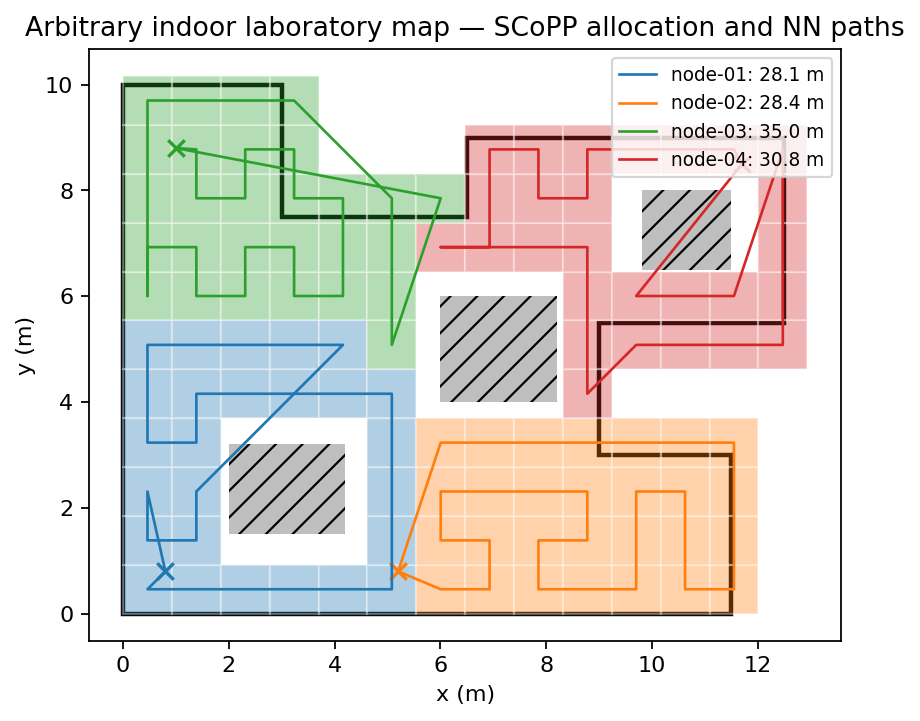
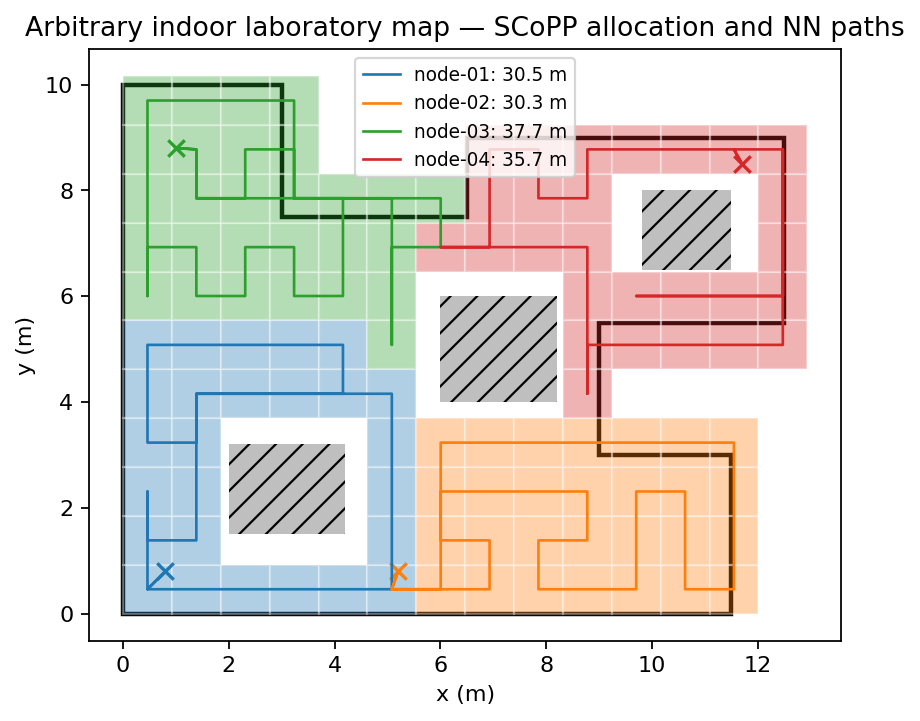
Expand coverage routes through adjacent valid cells

diff --git a/src/scopp/ui/path_ui.js b/src/scopp/ui/path_ui.js
@@ -19,7 +19,19 @@ const maxSteps=Math.max(...D.nodes.map(n=>n.trajectory.length));
 function applyFilter(){document.querySelectorAll('[data-owner]').forEach(e=>e.classList.toggle('dim',selected!==null&&+e.dataset.owner!==selected));document.querySelectorAll('.node-row').forEach(e=>e.classList.toggle('active',selected!==null&&+e.dataset.index===selected))}
 function positionAt(n,t){const end=n.trajectory.length-1,clamped=Math.min(t,end),i=Math.floor(clamped),f=clamped-i,a=n.trajectory[i],b=n.trajectory[Math.min(i+1,end)];return{p:[a[0]+(b[0]-a[0])*f,a[1]+(b[1]-a[1])*f],i,f}}
 function cumulative(n,t){const s=positionAt(n,t);let d=0;for(let i=1;i<=s.i;i++){const a=n.trajectory[i-1],b=n.trajectory[i];d+=Math.hypot(b[0]-a[0],b[1]-a[1])}if(s.f&&s.i<n.trajectory.length-1){const a=n.trajectory[s.i],b=n.trajectory[s.i+1];d+=Math.hypot(b[0]-a[0],b[1]-a[1])*s.f}return d}
-function drawStep(){document.querySelectorAll('.visited').forEach(e=>e.classList.remove('visited'));const active=selected===null?D.nodes:D.nodes.filter(n=>n.index===selected);D.nodes.forEach(n=>{const isActive=active.some(a=>a.index===n.index),s=positionAt(n,step),p=s.p,cursor=document.querySelector(`#cursor-${n.index}`);cursor.setAttribute('cx',p[0]);cursor.setAttribute('cy',-p[1]);cursor.setAttribute('visibility',isActive?'visible':'hidden');if(isActive)n.cellIds.slice(0,Math.max(0,s.i-1)).forEach(id=>document.querySelector(`#cell-${id}`)?.classList.add('visited'));const returning=s.i>=n.trajectory.length-2&&step>0,target=s.i===0?'첫 번째 cell':returning?'시작점':n.cellIds[Math.min(s.i,n.cellIds.length-1)],dist=cumulative(n,step),pct=n.trajectory.length>1?Math.min(step,n.trajectory.length-1)/(n.trajectory.length-1)*100:100;document.querySelector(`#node-status-${n.index}`).textContent=`${returning?'복귀':step===0?'대기':'이동'} · (${p[0].toFixed(2)}, ${p[1].toFixed(2)}) · 다음 ${target} · ${dist.toFixed(2)} m`;document.querySelector(`#bar-${n.index}`).style.width=`${pct}%`});document.querySelector('#movement').innerHTML=active.map(n=>{const s=positionAt(n,step),p=s.p;return`<div style="margin:5px 0;color:${C[n.index%C.length]}"><b>${n.id}</b> — 구간 ${s.i}/${n.trajectory.length-1}, 위치 (${p[0].toFixed(2)}, ${p[1].toFixed(2)}), 누적 ${cumulative(n,step).toFixed(2)} m</div>`}).join('');document.querySelector('#step').textContent=`${step.toFixed(1)} / ${selected===null?maxSteps-1:D.nodes[selected].trajectory.length-1}`}
+function drawStep(){
+ document.querySelectorAll('.visited').forEach(e=>e.classList.remove('visited'));
+ const active=selected===null?D.nodes:D.nodes.filter(n=>n.index===selected);
+ D.nodes.forEach(n=>{
+  const isActive=active.some(a=>a.index===n.index),s=positionAt(n,step),p=s.p,cursor=document.querySelector(`#cursor-${n.index}`),motionIndex=Math.min(s.i,n.motionCellIds.length-1);
+  cursor.setAttribute('cx',p[0]);cursor.setAttribute('cy',-p[1]);cursor.setAttribute('visibility',isActive?'visible':'hidden');
+  if(isActive){const covered=new Set(n.cellIds);n.motionCellIds.slice(0,Math.max(0,s.i)).filter(id=>covered.has(id)).forEach(id=>document.querySelector(`#cell-${id}`)?.classList.add('visited'))}
+  const returning=motionIndex>=n.returnMotionIndex||s.i>=n.motionCellIds.length,target=s.i>=n.motionCellIds.length?'시작점':n.motionCellIds[motionIndex],isCoverage=n.cellIds.includes(target),mode=returning?'복귀':step===0?'대기':isCoverage?'탐색':'경유',dist=cumulative(n,step),pct=n.trajectory.length>1?Math.min(step,n.trajectory.length-1)/(n.trajectory.length-1)*100:100;
+  document.querySelector(`#node-status-${n.index}`).textContent=`${mode} · (${p[0].toFixed(2)}, ${p[1].toFixed(2)}) · 다음 ${target} · ${dist.toFixed(2)} m`;document.querySelector(`#bar-${n.index}`).style.width=`${pct}%`;
+ });
+ document.querySelector('#movement').innerHTML=active.map(n=>{const s=positionAt(n,step),p=s.p;return`<div style="margin:5px 0;color:${C[n.index%C.length]}"><b>${n.id}</b> — 인접 이동 ${s.i}/${n.trajectory.length-1}, 위치 (${p[0].toFixed(2)}, ${p[1].toFixed(2)}), 누적 ${cumulative(n,step).toFixed(2)} m</div>`}).join('');
+ document.querySelector('#step').textContent=`${step.toFixed(1)} / ${selected===null?maxSteps-1:D.nodes[selected].trajectory.length-1}`;
+}
 function stop(){if(timer){clearInterval(timer);timer=null}document.querySelector('#play').textContent='▶ 재생'}
 function play(){if(timer){stop();return}document.querySelector('#play').textContent='Ⅱ 일시정지';timer=setInterval(()=>{const limit=selected===null?maxSteps-1:D.nodes[selected].trajectory.length-1;if(step>=limit){step=limit;drawStep();stop();return}step=Math.min(limit,step+(+document.querySelector('#speed').value));drawStep()},50)}
 document.querySelector('#play').onclick=play;document.querySelector('#reset').onclick=()=>{stop();step=0;drawStep()};document.querySelector('#speed').onchange=()=>{if(timer){stop();play()}};

diff --git a/artifacts/progress_ui.html b/artifacts/progress_ui.html
@@ -4,7 +4,7 @@
 <main><section class="stats" id="stats"></section><section class="panel"><div class="heading"><div><span>PIPELINE</span><h2>핵심 구현 단계</h2></div><b id="completion"></b></div><div class="pipeline" id="pipeline"></div></section>
 <div class="columns"><section class="panel"><div class="heading"><div><span>COMPARISON</span><h2>Clustering profile 비교</h2></div></div><div id="profiles"></div></section><section class="panel"><div class="heading"><div><span>DELIVERABLES</span><h2>확인 가능한 산출물</h2></div></div><div class="links" id="links"></div></section></div>
 <section class="panel"><div class="heading"><div><span>NEXT</span><h2>다음 구현 후보</h2></div></div><div class="next" id="next"></div></section></main>
-<script>const D={"commit": "fc17865", "tests": 43, "pythonFiles": 26, "cellCount": 109, "profiles": [{"name": "deterministic_lloyd", "cells": [26, 28, 28, 27], "makespan": 35.[phone redacted]}, {"name": "official_minibatch", "cells": [23, 38, 19, 29], "makespan": 47.[phone redacted]}], "stages": [{"name": "지도 모델", "detail": "AOI·no-fly·Shapely", "status": "done"}, {"name": "격자화", "detail": "FoV 기반 cell", "status": "done"}, {"name": "Clustering", "detail": "Lloyd·MiniBatch", "status": "done"}, {"name": "경매", "detail": "Conflict 해결", "status": "done"}, {"name": "CPP", "detail": "Nearest neighbor", "status": "done"}, {"name": "평가", "detail": "Makespan·확장성", "status": "done"}, {"name": "UI", "detail": "경로 이동 재생", "status": "done"}], "links": [{"name": "경로 이동 UI", "href": "path_ui.html"}, {"name": "공식 Profile UI", "href": "official_path_ui.html"}, {"name": "Profile 비교 JSON", "href": "profile_comparison.json"}, {"name": "확장성 그래프", "href": "indoor_scaling.png"}, {"name": "README", "href": "../README.md"}], "next": [{"name": "경로 성능", "detail": "동적 삭제 없는 KD-tree 탐색 병목을 개선합니다."}, {"name": "장애물 회피", "detail": "Cell 방문 순서를 실제 충돌 없는 이동 경로로 연결합니다."}, {"name": "실기체 연동", "detail": "시뮬레이터 검증 후 실험실 제어 어댑터를 추가합니다."}]};</script><script>document.querySelector('#commit').textContent=`main · ${D.commit}`;
+<script>const D={"commit": "f0e80ab", "tests": 44, "pythonFiles": 26, "cellCount": 109, "profiles": [{"name": "deterministic_lloyd", "cells": [26, 28, 28, 27], "makespan": 37.[phone redacted]}, {"name": "official_minibatch", "cells": [23, 38, 19, 29], "makespan": 50.[phone redacted]}], "stages": [{"name": "지도 모델", "detail": "AOI·no-fly·Shapely", "status": "done"}, {"name": "격자화", "detail": "FoV 기반 cell", "status": "done"}, {"name": "Clustering", "detail": "Lloyd·MiniBatch", "status": "done"}, {"name": "경매", "detail": "Conflict 해결", "status": "done"}, {"name": "CPP", "detail": "Nearest neighbor", "status": "done"}, {"name": "평가", "detail": "Makespan·확장성", "status": "done"}, {"name": "UI", "detail": "경로 이동 재생", "status": "done"}], "links": [{"name": "경로 이동 UI", "href": "path_ui.html"}, {"name": "공식 Profile UI", "href": "official_path_ui.html"}, {"name": "Profile 비교 JSON", "href": "profile_comparison.json"}, {"name": "확장성 그래프", "href": "indoor_scaling.png"}, {"name": "README", "href": "../README.md"}], "next": [{"name": "경로 성능", "detail": "동적 삭제 없는 KD-tree 탐색 병목을 개선합니다."}, {"name": "장애물 회피", "detail": "Cell 방문 순서를 실제 충돌 없는 이동 경로로 연결합니다."}, {"name": "실기체 연동", "detail": "시뮬레이터 검증 후 실험실 제어 어댑터를 추가합니다."}]};</script><script>document.querySelector('#commit').textContent=`main · ${D.commit}`;
 const stats=[['테스트',`${D.tests} passed`],['Python 파일',D.pythonFiles],['유효 Cell',D.cellCount],['구현 Profile',D.profiles.length]];
 document.querySelector('#stats').innerHTML=stats.map(x=>`<article class="stat"><b>${x[1]}</b><small>${x[0]}</small></article>`).join('');
 const done=D.stages.filter(x=>x.status==='done').length;document.querySelector('#completion').textContent=`${done}/${D.stages.length} 완료`;

diff --git a/src/scopp/algorithm/path_planning.py b/src/scopp/algorithm/path_planning.py
@@ -3,6 +3,7 @@
 from __future__ import annotations
 
 from dataclasses import dataclass
+from heapq import heappop, heappush
 from math import hypot
 
 from scopp.algorithm.auction import AllocationResult
@@ -62,12 +63,15 @@ class NodePath:
     start: XY
     cell_ids: tuple[str, ...]
     waypoints: tuple[XY, ...]
+    motion_cell_ids: tuple[str, ...]
+    motion_waypoints: tuple[XY, ...]
+    return_motion_index: int
     distance_m: float
 
     @property
     def trajectory(self) -> tuple[XY, ...]:
         """Official-code trajectory: start, all cell centres, then return."""
-        return (self.start,) + self.waypoints + ((self.start,) if self.waypoints else ())
+        return (self.start,) + self.motion_waypoints + ((self.start,) if self.motion_waypoints else ())
 
 
 @dataclass(frozen=True, slots=True)
@@ -98,11 +102,53 @@ def _ordered_nearest_neighbor(start: XY, items: tuple[_PointItem, ...]) -> tuple
     return tuple(route)
 
 
+class NoAdjacentPathError(ValueError):
+    """Raised when two coverage targets cannot be connected by valid cells."""
+
+
+def _adjacent_path(start_id: str, goal_id: str, cells_by_id, ids_by_key) -> tuple[str, ...]:
+    """Return a deterministic 4-neighbor A* path including both endpoints."""
+    if start_id == goal_id:
+        return (start_id,)
+    start, goal = cells_by_id[start_id], cells_by_id[goal_id]
+    start_key, goal_key = (start.row, start.col), (goal.row, goal.col)
+    frontier: list[tuple[int, int, int, tuple[int, int]]] = []
+    heappush(frontier, (0, 0, 0, start_key))
+    came_from: dict[tuple[int, int], tuple[int, int] | None] = {start_key: None}
+    cost = {start_key: 0}
+    sequence = 0
+    neighbor_offsets = ((-1, 0), (0, -1), (0, 1), (1, 0))
+    while frontier:
+        _, current_cost, _, current = heappop(frontier)
+        if current == goal_key:
+            keys: list[tuple[int, int]] = []
+            cursor: tuple[int, int] | None = current
+            while cursor is not None:
+                keys.append(cursor)
+                cursor = came_from[cursor]
+            return tuple(ids_by_key[key] for key in reversed(keys))
+        if current_cost != cost[current]:
+            continue
+        for dr, dc in neighbor_offsets:
+            neighbor = (current[0] + dr, current[1] + dc)
+            if neighbor not in ids_by_key:
+                continue
+            new_cost = current_cost + 1
+            if new_cost < cost.get(neighbor, 10**18):
+                cost[neighbor] = new_cost
+                came_from[neighbor] = current
+                sequence += 1
+                heuristic = abs(neighbor[0] - goal_key[0]) + abs(neighbor[1] - goal_key[1])
+                heappush(frontier, (new_cost + heuristic, new_cost, sequence, neighbor))
+    raise NoAdjacentPathError(f"no valid 4-neighbor path between {start_id!r} and {goal_id!r}")
+
+
 def plan_coverage_paths(mapped: DiscretizedMap, allocation: AllocationResult) -> PathPlan:
     """Order each node's assigned cell centres using KD-tree nearest neighbor."""
     if len(allocation.nodes) != len(mapped.source.node_starts):
         raise ValueError("allocation node count does not match map node count")
     cell_by_id = {cell.id: cell for cell in mapped.cells}
+    id_by_key = {(cell.row, cell.col): cell.id for cell in mapped.cells}
     stable_index = {cell.id: index for index, cell in enumerate(mapped.cells)}
     paths: list[NodePath] = []
     node_by_id = {node.id: node for node in mapped.source.node_starts}
@@ -114,12 +160,24 @@ def plan_coverage_paths(mapped: DiscretizedMap, allocation: AllocationResult) ->
         items = tuple(_PointItem(cell_by_id[cell_id].center, stable_index[cell_id], cell_id) for cell_id in allocated.cell_ids)
         ordered = _ordered_nearest_neighbor(node.position, items)
         waypoints = tuple(item.point for item in ordered)
-        distance = 0.0
-        previous = node.position
-        for waypoint in waypoints:
-            distance += hypot(waypoint[0] - previous[0], waypoint[1] - previous[1])
-            previous = waypoint
-        if waypoints:
-            distance += hypot(node.position[0] - previous[0], node.position[1] - previous[1])
-        paths.append(NodePath(allocated.cluster_index, node.id, node.position, tuple(item.cell_id for item in ordered), waypoints, distance))
+        if not ordered:
+            paths.append(NodePath(allocated.cluster_index, node.id, node.position, (), (), (), (), 0, 0.0))
+            continue
+        start_cell = min(mapped.cells, key=lambda cell: ((cell.center[0] - node.position[0]) ** 2 + (cell.center[1] - node.position[1]) ** 2, stable_index[cell.id]))
+        motion_ids: list[str] = [start_cell.id]
+        current_id = start_cell.id
+        for target in ordered:
+            segment = _adjacent_path(current_id, target.cell_id, cell_by_id, id_by_key)
+            motion_ids.extend(segment[1:])
+            current_id = target.cell_id
+        return_motion_index = len(motion_ids)
+        motion_ids.extend(_adjacent_path(current_id, start_cell.id, cell_by_id, id_by_key)[1:])
+        motion_waypoints = tuple(cell_by_id[cell_id].center for cell_id in motion_ids)
+        distance = hypot(motion_waypoints[0][0] - node.position[0], motion_waypoints[0][1] - node.position[1])
+        distance += sum(hypot(b[0] - a[0], b[1] - a[1]) for a, b in zip(motion_waypoints, motion_waypoints[1:]))
+        distance += hypot(node.position[0] - motion_waypoints[-1][0], node.position[1] - motion_waypoints[-1][1])
+        paths.append(NodePath(allocated.cluster_index, node.id, node.position, tuple(item.cell_id for item in ordered), waypoints, tuple(motion_ids), motion_waypoints, return_motion_index, distance))
     return PathPlan(tuple(paths))
+
+
+__all__ = ["NoAdjacentPathError", "NodePath", "PathPlan", "plan_coverage_paths"]

diff --git a/tests/algorithm/test_path_planning.py b/tests/algorithm/test_path_planning.py
@@ -19,6 +19,7 @@ def test_paths_visit_every_allocated_cell_once() -> None:
         assert len(path.waypoints) == len(path.cell_ids)
         assert path.trajectory[0] == path.start
         assert path.trajectory[-1] == path.start
+        assert len(path.motion_cell_ids) == len(path.motion_waypoints)
         assert path.distance_m >= 0
     assert plan.makespan_distance_m == max(path.distance_m for path in plan.paths)
 
@@ -47,3 +48,13 @@ def test_total_distance_matches_path_sum() -> None:
     mapped = discretize_map(load_map(ROOT / "examples/maps/indoor_lab.yaml"))
     plan = plan_coverage_paths(mapped, allocate_conflict_cells(mapped, cluster_map(mapped)))
     assert plan.total_distance_m == pytest.approx(sum(path.distance_m for path in plan.paths))
+
+
+def test_motion_path_uses_only_four_neighbor_cells() -> None:
+    mapped = discretize_map(load_map(ROOT / "examples/maps/indoor_lab.yaml"))
+    plan = plan_coverage_paths(mapped, allocate_conflict_cells(mapped, cluster_map(mapped)))
+    by_id = {cell.id: cell for cell in mapped.cells}
+    for path in plan.paths:
+        for first, second in zip(path.motion_cell_ids, path.motion_cell_ids[1:]):
+            a, b = by_id[first], by_id[second]
+            assert abs(a.row - b.row) + abs(a.col - b.col) == 1

diff --git a/scripts/build_path_ui.py b/scripts/build_path_ui.py
@@ -29,7 +29,7 @@ def build_data(map_file: Path, config: ScoppConfig) -> dict[str, object]:
         "makespan": plan.makespan_distance_m,
         "totalDistance": plan.total_distance_m,
         "cells": [{"id": cell.id, "vertices": cell.vertices, "owner": owners[cell.id]} for cell in mapped.cells],
-        "nodes": [{"index": path.cluster_index, "id": path.node_id, "start": path.start, "cells": len(path.cell_ids), "distance": path.distance_m, "cellIds": path.cell_ids, "waypoints": path.waypoints, "trajectory": path.trajectory} for path in plan.paths],
+        "nodes": [{"index": path.cluster_index, "id": path.node_id, "start": path.start, "cells": len(path.cell_ids), "distance": path.distance_m, "cellIds": path.cell_ids, "motionCellIds": path.motion_cell_ids, "returnMotionIndex": path.return_motion_index, "waypoints": path.waypoints, "trajectory": path.trajectory} for path in plan.paths],
     }
 
 

diff --git a/README.md b/README.md
@@ -39,6 +39,8 @@ Multi-Robot Teams for Monitoring Non-Convex Areas*에서 제안한 SCoPP를
 4. Coverage path planning
    - 각 노드는 시작 위치에서 가장 가까운 미방문 cell 중심을 반복 선택한다.
    - 2차원 KD-tree nearest-neighbor를 사용한다.
+   - 목표 cell 사이는 AOI 내부의 유효 cell만 사용하는 4-neighbor A* 경로로 전개한다.
+   - coverage 목표와 단순 통과용 transit cell을 구분해 기록한다.
    - 공식 구현과의 정합성을 위해 마지막에 시작점으로 복귀한다.
 5. 실험 평가
    - 노드별 cell 수와 이동거리, workload 편차, makespan, 전체 이동거리 및 단계별
@@ -107,8 +109,8 @@ python scripts/build_path_ui.py examples/maps/indoor_lab.yaml --profile official
 - 노드: 4개
 - conflict cell: 15개
 - 노드별 할당 cell: `26, 28, 28, 27`
-- 시작점 복귀를 포함한 makespan 거리: 약 `35.032 m`
-- 테스트: 32개
+- 시작점 복귀와 인접 cell 이동을 포함한 makespan 거리: 약 `37.723 m`
+- 테스트: 44개
 
 실행시간은 시스템 상태에 따라 달라지므로 새 실험마다 다시 측정해야 한다.
 
@@ -145,6 +147,7 @@ metres; geographic conversion is outside the current laboratory scope.
   cluster-to-node association;
 - conflict detection and the greedy `cell count + B × d0` auction;
 - KD-tree nearest-neighbor coverage routes returning to each node start;
+- deterministic 4-neighbor A* expansion between consecutive coverage targets;
 - JSON experiment metrics and CSV/PNG node-count scaling reports.
 
 ### Quick start

diff --git a/docs/official_parity_audit.md b/docs/official_parity_audit.md
@@ -45,6 +45,9 @@ adaptations in this repository.
   larger than the entire indoor cell.
 - The local nearest-neighbor implementation uses a KD-tree as described by the
   paper; the official default code currently selects brute force.
+- Consecutive coverage targets are expanded into valid-cell 4-neighbor A*
+  transit paths. This is an indoor execution constraint after the paper's visit
+  ordering stage.
 
 These adaptations must be reported in indoor experiment results and must not be
 presented as byte-for-byte official-code reproduction.

diff --git a/docs/official_parity_audit.ko.md b/docs/official_parity_audit.ko.md
@@ -35,6 +35,8 @@
 - 전체 AOI를 빠뜨리지 않기 위한 `any_overlap` 정책을 제공한다.
 - perimeter 표본 간격은 3 m가 아니라 `W/8`을 기본값으로 사용한다.
 - 논문 설명에 맞춰 자체 2차원 KD-tree로 nearest-neighbor를 계산한다.
+- 실제 격자 이동은 AOI/no-fly 제약을 지키는 4-neighbor A* transit 경로로 전개한다.
+  이는 논문의 방문 순서 이후에 추가한 실내 실행 제약이다.
 
 ## 구현된 공식 clustering profile
 